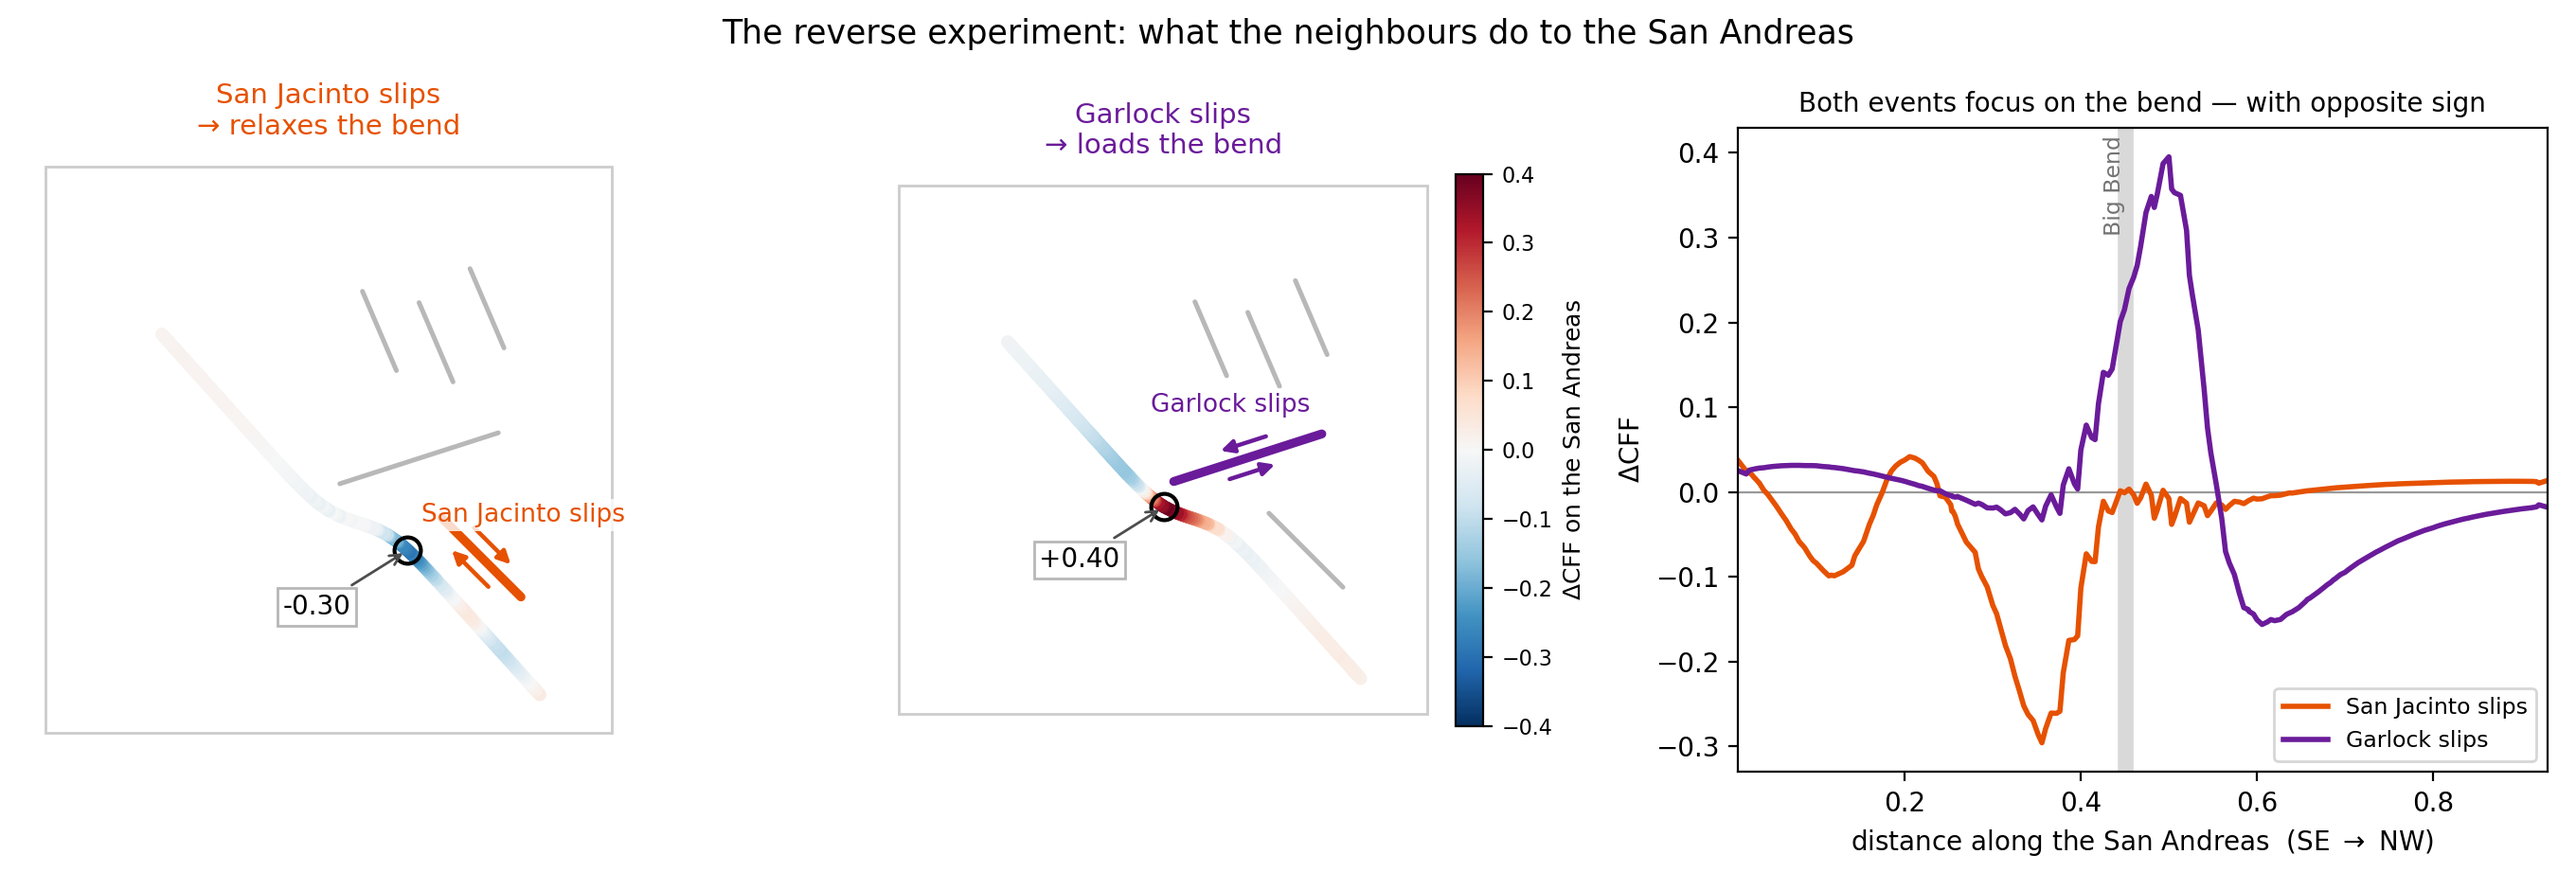
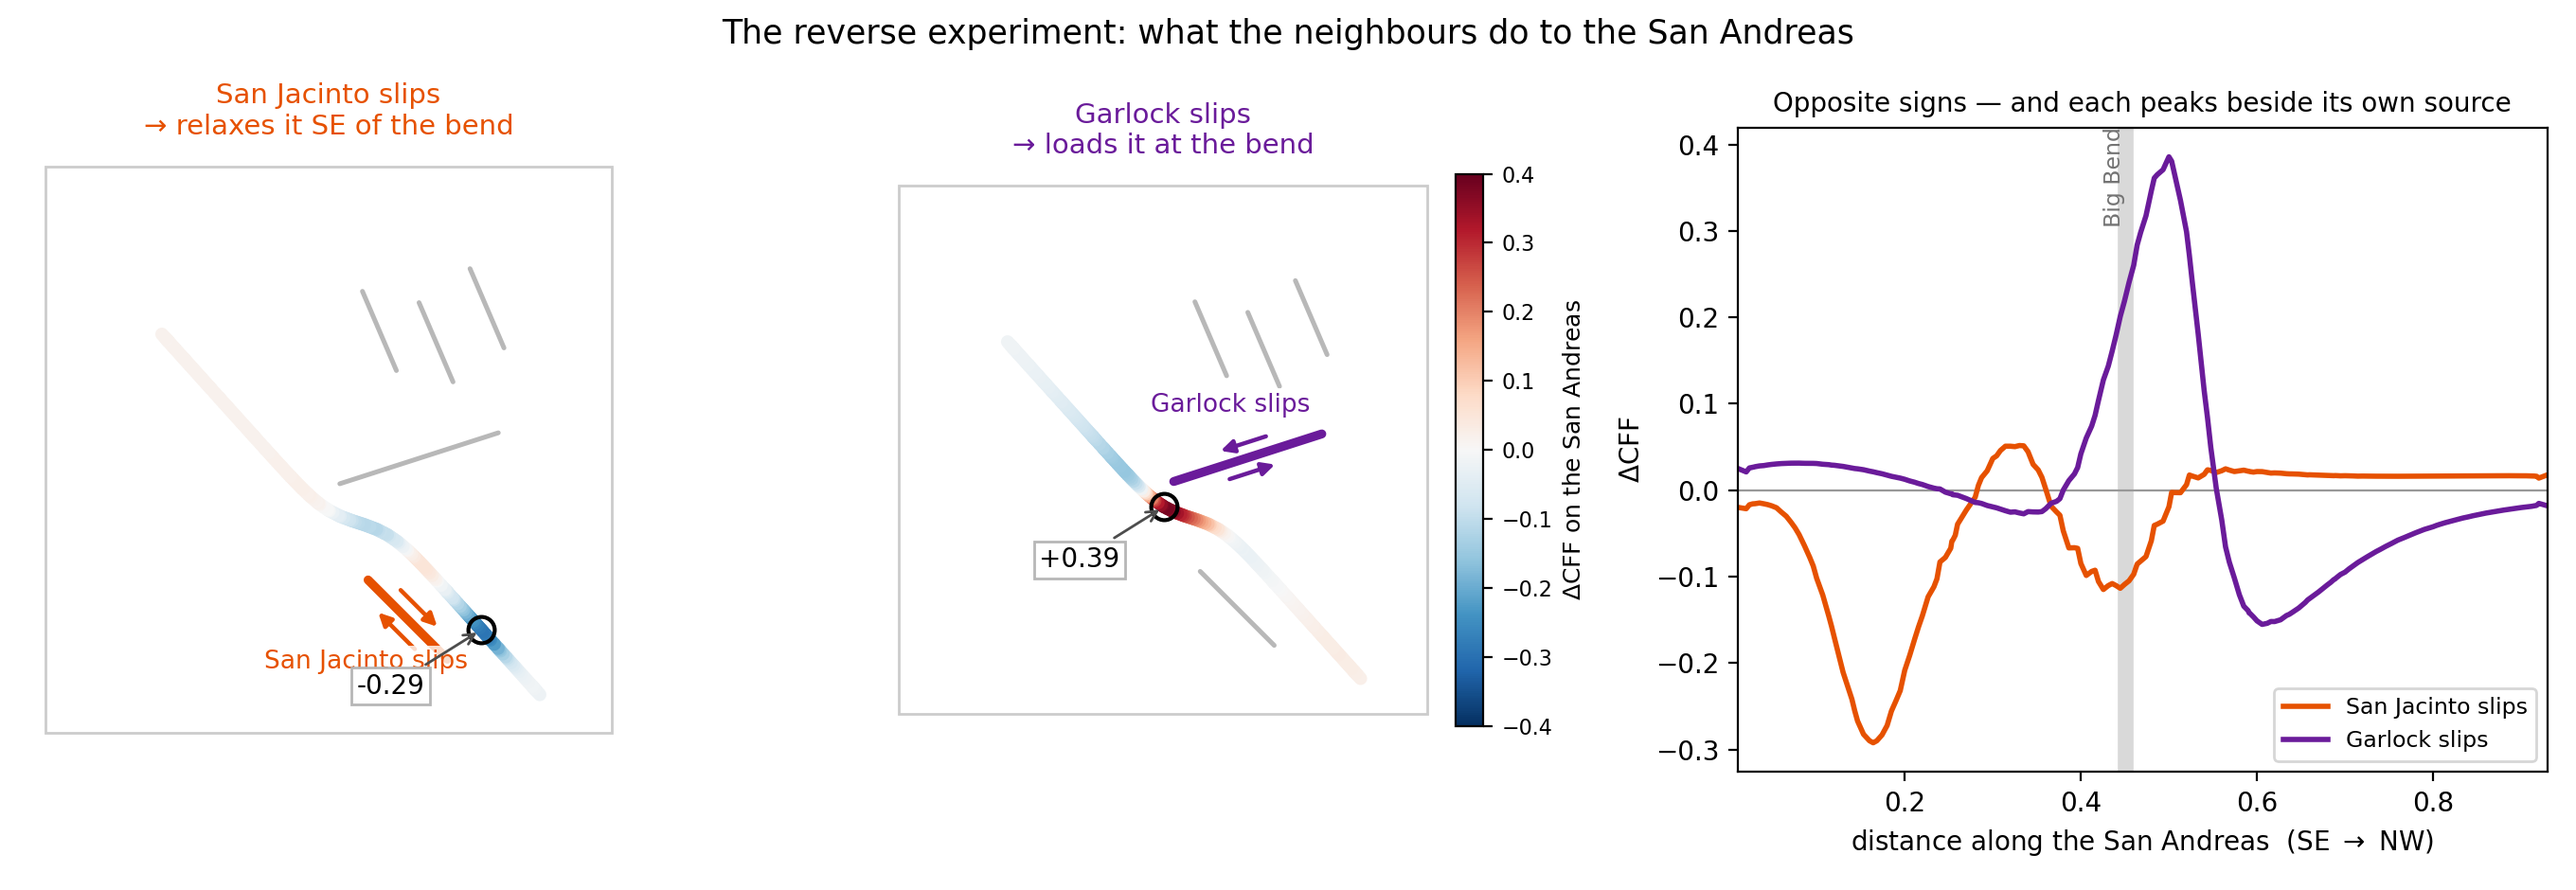
California figures: the San Jacinto moves to the Pacific side
The schematic geography behind every California figure put the San
Jacinto NE of the San Andreas -- inboard with the Garlock and the
three ECSZ strands, on the North American side. The real San Jacinto
is SW of the master fault, on the Pacific side. Fixed upstream
(underworld3 f7d031ac) and all five affected figures regenerated:
california-curved, california-clocks, california-trajectories,
saf-loaded, cff-explained.

The physics survives the move -- the San Jacinto is still deep in the
stress shadow -- but the numbers quoted in 3.1 do not, so the delta CFF
table and the worked two-terms example are re-read off the new solves.
The table's "median" column becomes "at its own strike": across a full
gauge sweep the median is close to meaningless, and the strike the
fault actually has is what picks a number out of the range. It also
makes the better point -- Garlock and San Jacinto have near-identical
swings (~1.1) that resolve to +0.09 and -0.49.

The reverse-experiment slide claimed both neighbours concentrate their
effect on the restraining bend. Only the Garlock does; the San Jacinto
peaks on the stretch alongside itself, southeast of the bend. The
figure asserted the same thing in a hardcoded caption and now reads it
off the data.

Module 1.3 loses the step-over California slide (Louis: "we are not
using the step-over version"). Its stress-transfer paragraph merges
into the curving-San-Andreas slide, which keeps the title, and
[…]

diff --git a/Lectures/Module-iii-lecture1-Theory-draft.reveal.md b/Lectures/Module-iii-lecture1-Theory-draft.reveal.md
@@ -755,10 +755,10 @@ $$\Delta \mathrm{CFF} = \Delta \tau - \mu' \Delta \sigma$$
 
 The measured San Jacinto case on the right of that figure is a good one to look at, because the two terms pull in **opposite** directions:
 
-- $\Delta \tau = -0.53$ — the San Andreas slip reduces shear on the plane — *away* from failure
-- $-\mu' \Delta \sigma = +0.11$ — it also *unclamped* the plane, moving it *towards* failure
+- $\Delta \tau = -0.60$ — the San Andreas slip reduces shear on the plane — *away* from failure
+- $-\mu' \Delta \sigma = +0.12$ — it also *unclamped* the plane, moving it *towards* failure
 
-The shear term wins, so the net is $-0.42$: this fault is "safer" than it was. But you cannot tell that from either term alone, and the sign of the answer is not obvious before you compute it.
+The shear term wins, so the net is $-0.49$: this fault is "safer" than it was. But you cannot tell that from either term alone, and the sign of the answer is not obvious before you compute it.
 
 $\mu'$ is an **effective** friction: it bundles the real friction together with how the pore fluid responds to the squeeze. Values near $0.4$ are common.
 
@@ -814,15 +814,17 @@ Before the earthquake all three circles are the **same**: one regional stress, f
 
 ## It depends which way your fault faces
 
-The measured swing in $\Delta$CFF across orientations, at each site:
+The measured swing in $\Delta$CFF across orientations, and the value at each fault's *actual* mapped strike:
 
-| Site | $\Delta$CFF range | median |
+| Site | $\Delta$CFF range | at its own strike |
 |---|---|---|
-| Garlock | $-0.64$ to $+0.54$ | $+0.01$ |
-| ECSZ | $-0.01$ to $+0.15$ | $+0.08$ |
-| San Jacinto | $-0.75$ to $+0.66$ | $-0.06$ |
+| Garlock | $-0.66$ to $+0.41$ | $+0.09$ |
+| ECSZ | $-0.01$ to $+0.14$ | $+0.05$ |
+| San Jacinto | $-0.50$ to $+0.59$ | $-0.49$ |
 
-At Garlock and San Jacinto the *same* earthquake either loads you or relaxes you — a swing of more than $1.2$ — depending on nothing but the orientation of your fault. The median is close to zero at both, and tells you almost nothing.
+At Garlock and San Jacinto the *same* earthquake either loads you or relaxes you — a swing of about $1.1$ — depending on nothing but the orientation of your fault. The range alone therefore says almost nothing; only the strike the fault actually has picks a number out of it.
+
+And the two nearly identical ranges resolve completely differently: the San Jacinto, which lies along the Pacific side of the master fault and shares its strike, is pushed hard *away* from failure ($-0.49$), while the Garlock is barely touched ($+0.09$).
 
 This is why aftershock forecasting needs the **receiver geometry**, not just the source: "was this fault brought closer to failure?" has no answer until you say which fault.
 
@@ -836,10 +838,10 @@ Let a *neighbour* slip instead, and read the San Andreas. The animation winds th
 
 Both events reach the master fault, and they do **opposite** things:
 
-- the **San Jacinto** slips right-laterally and **relaxes** the master fault, most strongly just southeast of the bend ($-0.30$);
-- the **Garlock** — which resolves *left*-laterally from the kinematics alone, the sense the real Garlock has — **loads** it, and does so right at the bend ($+0.40$).
+- the **San Jacinto** slips right-laterally and **relaxes** the master fault ($-0.29$), most strongly on the stretch alongside itself, southeast of the bend;
+- the **Garlock** — which resolves *left*-laterally from the kinematics alone, the sense the real Garlock has — **loads** it ($+0.39$), and because the Garlock abuts the bend, that loading lands squarely on the bend.
 
-Both effects are concentrated on the **restraining bend**. Geometry decides not only where the mountains go, but where the fault is most sensitive to its neighbours.
+Each event peaks on the stretch of fault beside its own source — so it is the Garlock, not the San Jacinto, that reaches the **restraining bend**. Geometry decides not only where the mountains go, but which neighbour the fault is most sensitive to, and where.
 
 <small>
 

diff --git a/Lectures/Module-i-GlobalTectonics-3.reveal.md b/Lectures/Module-i-GlobalTectonics-3.reveal.md
@@ -298,27 +298,13 @@ Change in Coulomb failure stress from a single slip event; red = loaded towards 
 
 ## Putting it together: southern California
 
-![California](images/UW-FaultExamples/california-stepover.png) <!-- .element style="display:block; margin-left:auto; margin-right:auto; width:58%" -->
-
-The same ideas at plate-boundary scale: a schematic San Andreas system, driven by the plate motion. Slip on the main strands transfers stress to the faults around them — some are loaded, some relaxed, purely by geometry and orientation.
-
-*Everything on this slide follows from the concepts of this lecture: principal stresses, resolved shear, friction, and faults sitting near failure.*
-
-<small>
-
-Underworld3 computation (Moresi). We return to this style of analysis quantitatively in Modules 3 and 4.
-
-</small>
-
-<--v-->
-
-## … with a curving San Andreas
-
 ![California](images/UW-FaultExamples/california-curved.png) <!-- .element style="display:block; margin-left:auto; margin-right:auto; width:58%" -->
 
-Now the master fault is one continuous trace that *bends*. Nothing about the driving stress has changed — but because the fault curves, the shear resolved onto it changes along its own length. The restraining bend runs out of room, and the compression piles up exactly where the Transverse Ranges are.
+The same ideas at plate-boundary scale: a schematic San Andreas, driven by the plate motion, as one continuous trace that *bends*. Nothing about the driving stress changes along it — but because the fault curves, the shear resolved onto it changes along its own length. The restraining bend runs out of room, and the compression piles up exactly where the Transverse Ranges are.
 
-Orientation is destiny for a whole fault, not just for a plane.
+Slip on the master fault then transfers stress to its neighbours — some loaded, some relaxed, purely by geometry and orientation. Orientation is destiny for a whole fault, not just for a plane.
+
+*Everything on this slide follows from the concepts of this lecture: principal stresses, resolved shear, friction, and faults sitting near failure.*
 
 <small>
 
